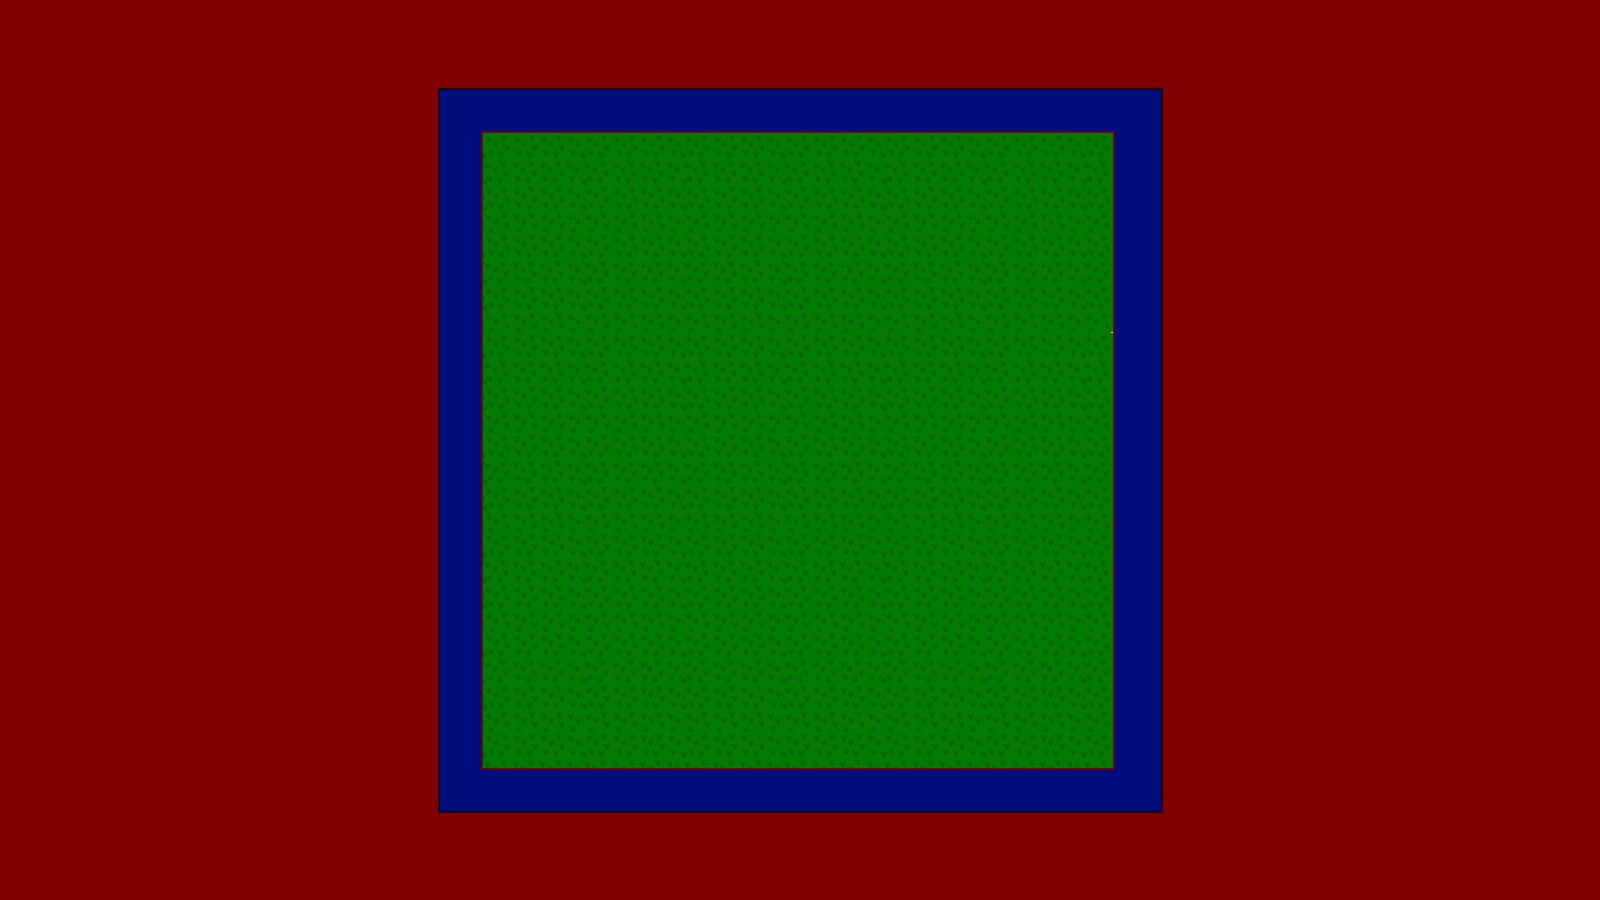
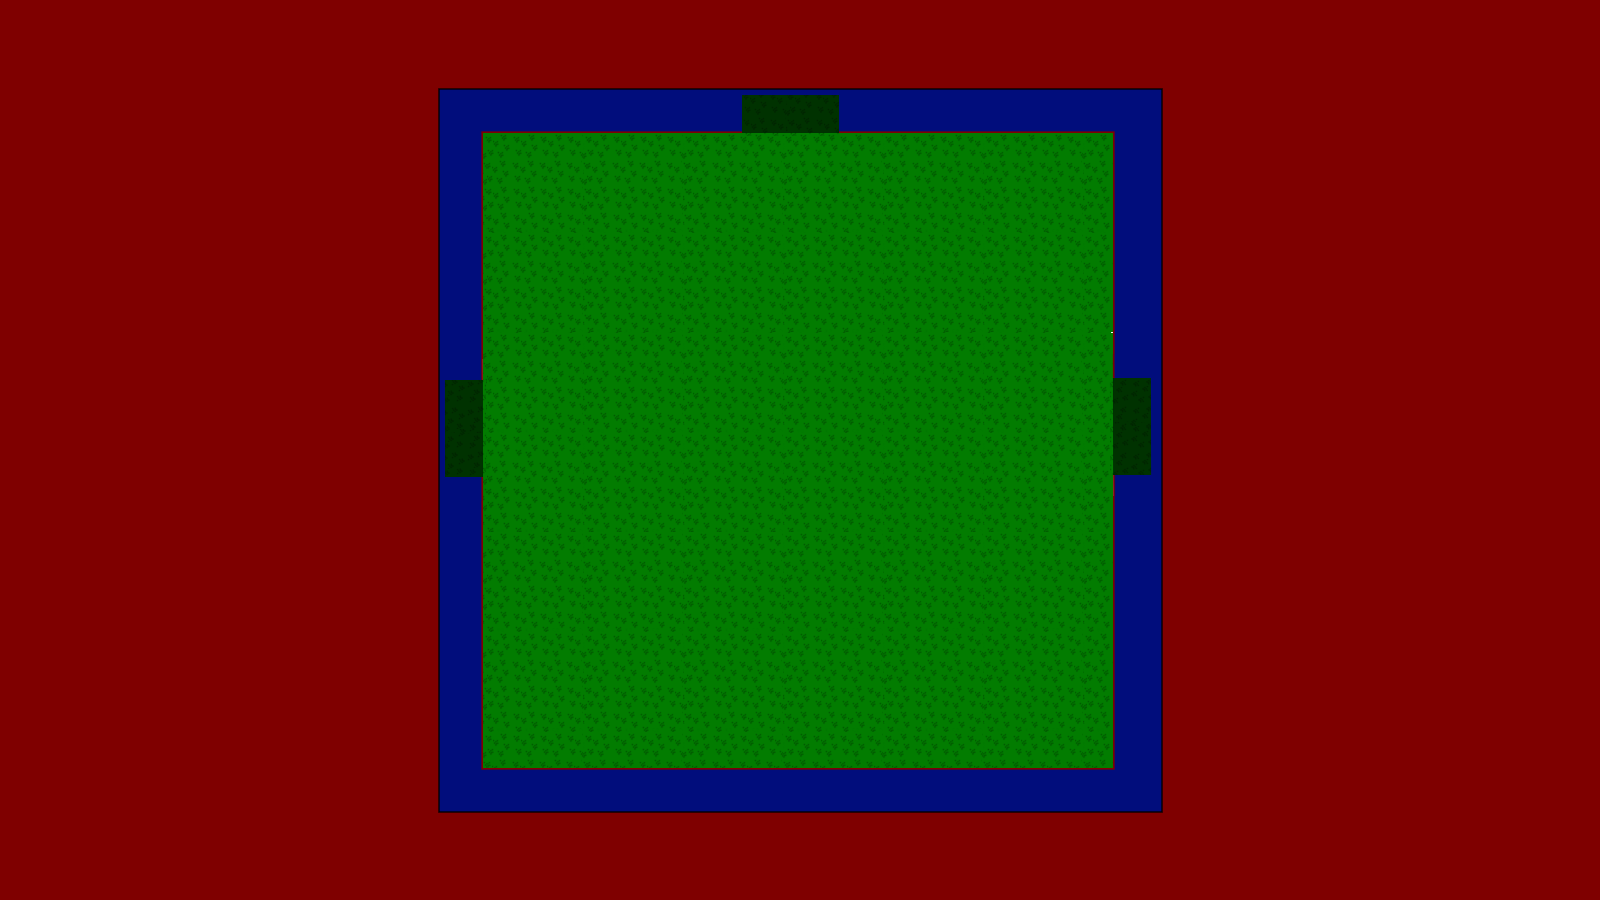
Worked further on dungeon crawling controls

Changed region(s): [[0.4375, 0.0933, 0.5312, 0.1556], [0.6875, 0.4044, 0.7188, 0.5289], [0.2812, 0.4044, 0.3125, 0.5289]]

diff --git a/crawler.py b/crawler.py
@@ -40,7 +40,7 @@ class Crawler():
         goblin = Enemy("Goblin", 10, 10, 10, 10, 10, 10)
         self.enemy = EnemyMap(self.screen, goblin, width/2, height/2, get_portrait("Gobble"))
         character = BearKnight([10,10,10,10,10,10])
-        self.player = PlayerMap(character, self.screen, width/2/2, height/2/2, get_portrait("N. Steen"))
+        self.player = PlayerMap(character, self.screen, 740, 125, get_portrait("dogdude"))
 
     def quit(self):
         pygame.quit()
@@ -67,6 +67,7 @@ class Crawler():
 
         while True:
             now = pygame.time.get_ticks()
+            print("x: " + str(self.player.x) + "| y: " + str(self.player.y))
 
             self.draw_gl_scene(dungeon_rooms, current_room)
             dt = min(self.clock.tick(FPS) / 1000.0, 1.0 / FPS)
@@ -77,13 +78,13 @@ class Crawler():
                 self.input(None, pressed)
             else:
                 if self.speed_x > 0:
-                    self.speed_x -= 1
+                    self.speed_x -= 2
                 elif self.speed_x < 0:
-                    self.speed_x += 1
+                    self.speed_x += 2
                 if self.speed_y > 0:
-                    self.speed_y -= 1
+                    self.speed_y -= 2
                 elif self.speed_y < 0:
-                    self.speed_y += 1
+                    self.speed_y += 2
 
             for event in pygame.event.get():
                 if event.type == KEYUP:
@@ -105,24 +106,37 @@ class Crawler():
         if pressed != False:
             keys = pressed  #checking pressed keys
             if (keys[pygame.K_UP] or keys[pygame.K_w]) and self.player.y < 677:
-                if self.speed_y < 10:
-                    self.speed_y += 1
+                if self.speed_y < 0:
+                    self.speed_y += 2
+                else:
+                    if self.speed_y < 10:
+                        self.speed_y += 2
                 self.player.y += self.speed_y
             if (keys[pygame.K_LEFT] or keys[pygame.K_a]) and self.player.x > 485:
-                if self.speed_x > -10:
-                    self.speed_x -= 1
+                if self.speed_x > 0:
+                    self.speed_x -= 2
+                else:
+                    if self.speed_x > -10:
+                        self.speed_x -= 2
                 self.player.x += self.speed_x
-            if (keys[pygame.K_RIGHT] or keys[pygame.K_d]) and self.player.x < 1015:
-                if self.speed_x < 10:
-                    self.speed_x += 1
+            if (keys[pygame.K_RIGHT] or keys[pygame.K_d]) and self.player.x < 1055:
+                if self.speed_x < 0:
+                    self.speed_x += 2
+                else:
+                    if self.speed_x < 10:
+                        self.speed_x += 2
                 self.player.x += self.speed_x
-            if (keys[pygame.K_DOWN] or keys[pygame.K_s]) and self.player.y > 133:
-                if self.speed_y > -10:
-                    self.speed_y -= 1
+            if (keys[pygame.K_DOWN] or keys[pygame.K_s]) and self.player.y > 143:
+                if self.speed_y > 0:
+                    self.speed_y -= 2
+                else:
+                    if self.speed_y > -10:
+                        self.speed_y -= 2
                 self.player.y += self.speed_y
         else:
             if key == K_q:
                 self.quit()
+                """
             elif (key == K_RIGHT or key == K_d) and self.player.x < 1200:
                 self.player.x += self.speed_x
             elif (key == K_LEFT or key == K_a) and self.player.x > 400:
@@ -130,7 +144,8 @@ class Crawler():
             elif (key == K_DOWN or key == K_s) and self.player.y > 200:
                 self.player.y += self.speed_y
             elif (key == K_UP or key == K_w) and self.player.y < 700:
-                self.player.x += self.speed_y
+                self.player.y += self.speed_y
+                """
             elif key == K_r:
                 if self.fullscreen == 0:
                     self.display = pygame.display.set_mode((width, height),
@@ -150,7 +165,7 @@ class Crawler():
         #glLoadIdentity()
         #glTranslatef(0.0,0.0,-10.0)
 
-        blit_bg(0, dungeon_rooms[current_room], False)
+        self.blit_bg_camera(dungeon_rooms[current_room], False)
         self.player.draw()
         self.enemy.draw()
         
@@ -159,6 +174,11 @@ class Crawler():
         pygame.display.flip()
 
         return
+    
+    def blit_bg_camera(self, bg="cave.png", move=True):
+        background = pygame.image.load("images/" + bg).convert_alpha()
+        background = pygame.transform.scale(background,(1600,900))
+        blit_image([width, height], 0, 0, background, 1, 1, 1)
 
 
 if __name__ == '__main__':

diff --git a/helpers.py b/helpers.py
@@ -224,6 +224,10 @@ def get_portrait(character):
         portrait = pygame.image.load("images/gabble.png")
         portrait = pygame.transform.scale(portrait,(96,96))
         return portrait
+    if character in ["dogdude"]:
+        portrait = pygame.image.load("images/dogdude.png")
+        portrait = pygame.transform.scale(portrait,(60,120))
+        return portrait
     
 def get_portrait_2(character):
     if character == "N. Steen":
